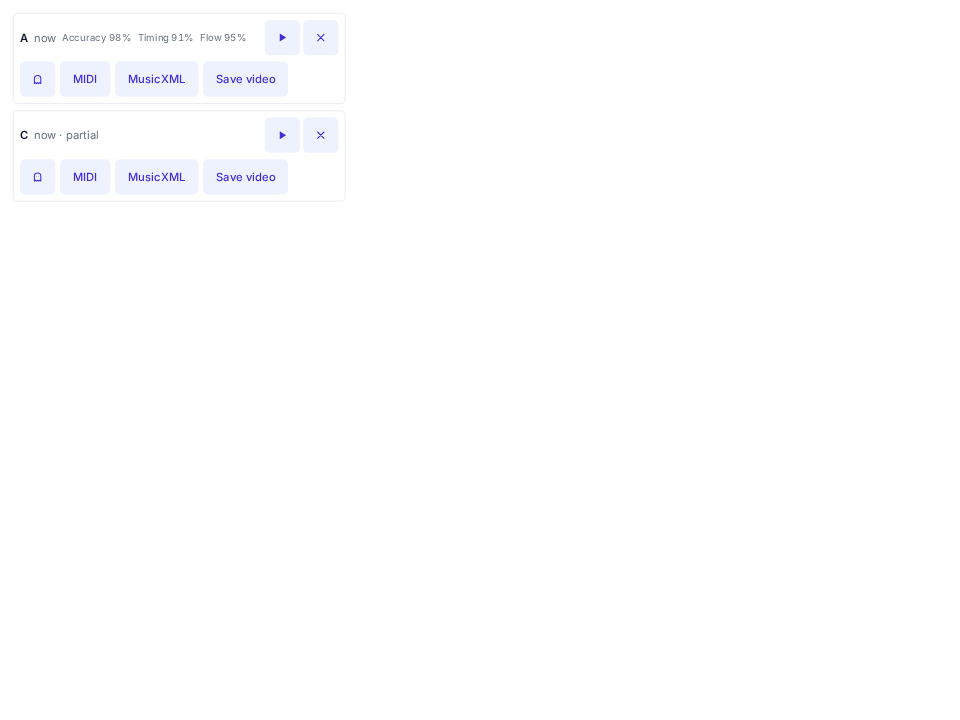
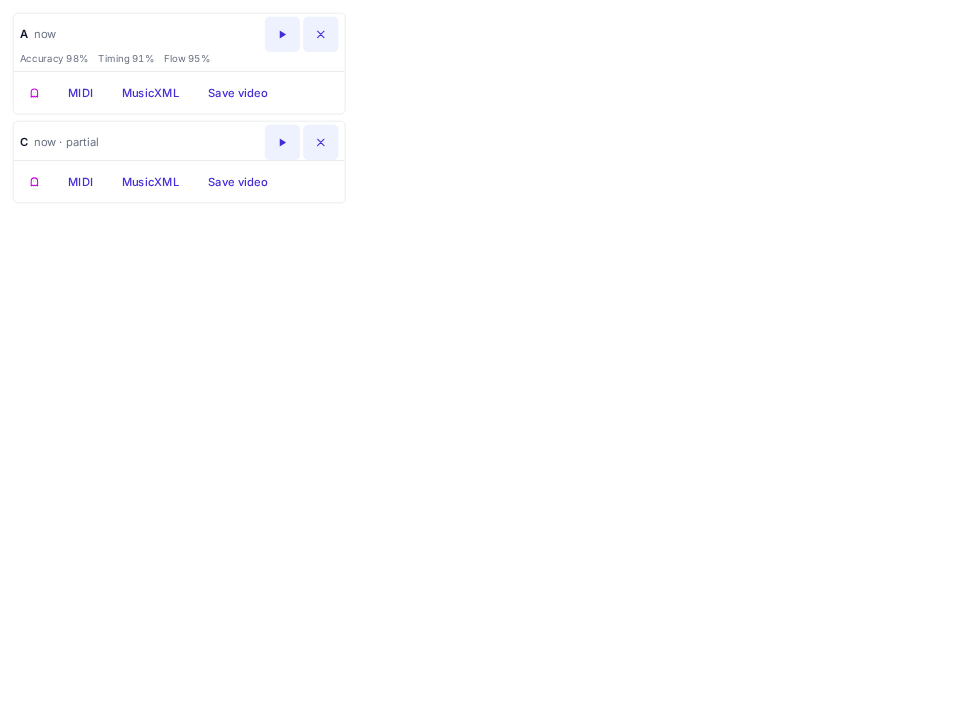
fix(takes): calm the run card into header, metrics line, and a toolbar strip
The two-line layout wrapped messily at drawer width: metrics broke the
header apart, the replay/delete icons floated to their own line, and the
mixed tinted buttons read as clutter. A run card now has three fixed
zones — a header line that never wraps (grade + age left, replay/delete
pinned right), the metrics as their own quiet line, and the export
actions as ghost-styled text in a hairline-separated footer strip, where
wrapping reads as a toolbar rather than overflow.

diff --git a/app/components/features/takesPanel.tsx b/app/components/features/takesPanel.tsx
@@ -95,34 +95,23 @@ export function TakesPanel({
                     {takes.map((take) => {
                         const replaying = activeReplayId === take.id;
                         return (
-                            // Two stacked lines, each free to wrap: the run's identity with
-                            // the compact controls top-right, and the export actions below.
-                            // Nothing shares a line it can't fit on, so the row never
-                            // overflows the drawer, however narrow.
+                            // A run is a small card of three fixed zones so no width can
+                            // scramble it: a header line that never wraps (identity left,
+                            // replay/delete pinned right), the metrics as their own quiet
+                            // line, and a footer strip of ghost-styled export actions
+                            // behind a hairline — wrapping inside the strip reads as a
+                            // toolbar, not as overflow.
                             <li
                                 key={take.id}
-                                className="space-y-2 rounded-md border border-gray-200 p-2 text-sm dark:border-gray-800"
+                                className="rounded-md border border-gray-200 text-sm dark:border-gray-800"
                             >
-                                <div className="flex flex-wrap items-center gap-2">
+                                <div className="flex items-center gap-2 px-2 pt-1">
                                     <span className="font-semibold">{take.letter || "—"}</span>
-                                    <span className="text-gray-500 dark:text-gray-400">
+                                    <span className="truncate text-gray-500 dark:text-gray-400">
                                         {formatAgo(take.createdAt, now, getLocale())}
                                         {!take.complete && ` · ${m.takes_partial()}`}
                                     </span>
-                                    {take.metrics && (
-                                        <span className="flex items-center gap-2 text-xs text-gray-500 tabular-nums dark:text-gray-400">
-                                            <span>
-                                                {m.scores_accuracy()} {take.metrics.accuracy}%
-                                            </span>
-                                            <span>
-                                                {m.scores_timing()} {take.metrics.timing}%
-                                            </span>
-                                            <span>
-                                                {m.scores_flow()} {take.metrics.flow}%
-                                            </span>
-                                        </span>
-                                    )}
-                                    <span className="ml-auto flex items-center gap-1">
+                                    <span className="ml-auto flex shrink-0 items-center gap-1">
                                         <IconButton
                                             label={replaying ? m.takes_stop() : m.takes_replay()}
                                             onClick={() => (replaying ? onStop() : onReplay(take))}
@@ -138,14 +127,29 @@ export function TakesPanel({
                                         </IconButton>
                                     </span>
                                 </div>
-                                <div className="flex flex-wrap items-center gap-1.5">
+                                {take.metrics && (
+                                    <div className="flex flex-wrap gap-x-3 gap-y-0.5 px-2 pb-2 text-xs text-gray-500 tabular-nums dark:text-gray-400">
+                                        <span>
+                                            {m.scores_accuracy()} {take.metrics.accuracy}%
+                                        </span>
+                                        <span>
+                                            {m.scores_timing()} {take.metrics.timing}%
+                                        </span>
+                                        <span>
+                                            {m.scores_flow()} {take.metrics.flow}%
+                                        </span>
+                                    </div>
+                                )}
+                                <div className="flex flex-wrap items-center gap-x-1 border-t border-gray-200 px-1 py-1 dark:border-gray-800">
                                     <ShareGhostButton
                                         id={id}
                                         title={title}
                                         onsets={ghostOnsets(take)}
                                         label={m.takes_share_ghost()}
+                                        variant="plain"
                                     />
                                     <Button
+                                        variant="ghost"
                                         onClick={() =>
                                             downloadBlob(
                                                 buildMidiFile(toMidiNotes(take.composition), {
@@ -159,6 +163,7 @@ export function TakesPanel({
                                         {m.takes_download_midi()}
                                     </Button>
                                     <Button
+                                        variant="ghost"
                                         onClick={() =>
                                             downloadBlob(
                                                 toMusicXml(take.composition),

diff --git a/app/components/features/shareGhostButton.tsx b/app/components/features/shareGhostButton.tsx
@@ -6,7 +6,7 @@ import { SITE_URL } from "../../../core/site";
 import { useCopied } from "../../hooks/useCopied";
 import { m } from "../../paraglide/messages.js";
 import { localizeHref } from "../../paraglide/runtime.js";
-import { Button, IconButton } from "../ui/button";
+import { Button, type ButtonVariant, IconButton } from "../ui/button";
 import { GhostIcon } from "../ui/icons";
 
 // Hand a run to a friend as a link they open to race it. The onsets are any run's
@@ -20,6 +20,7 @@ export function ShareGhostButton({
     onsets,
     label,
     showLabel = false,
+    variant = "secondary",
 }: {
     // The song id, so the link points back at this piece.
     id: string;
@@ -30,6 +31,9 @@ export function ShareGhostButton({
     // Icon-only with `label` as the accessible name (in a row of icons), or a button
     // with the label visible (standalone).
     showLabel?: boolean;
+    // Matches the surrounding row: the quiet ghost look inside a toolbar strip,
+    // the tinted default when standalone.
+    variant?: ButtonVariant;
 }) {
     // Briefly confirm a clipboard copy on the surface where no native share sheet ran.
     const [copied, flashCopied] = useCopied();
@@ -68,6 +72,7 @@ export function ShareGhostButton({
             <IconButton
                 label={label}
                 onClick={share}
+                variant={variant}
                 className="text-fuchsia-600 dark:text-fuchsia-400"
             >
                 <GhostIcon />

diff --git a/app/components/features/exportVideoButton.tsx b/app/components/features/exportVideoButton.tsx
@@ -78,7 +78,7 @@ export function ExportVideoButton({
     };
 
     return (
-        <Button onClick={save} disabled={progress !== null}>
+        <Button variant="ghost" onClick={save} disabled={progress !== null}>
             {progress === null
                 ? m.takes_download_video()
                 : m.takes_video_progress({ percent: Math.round(progress * 100) })}